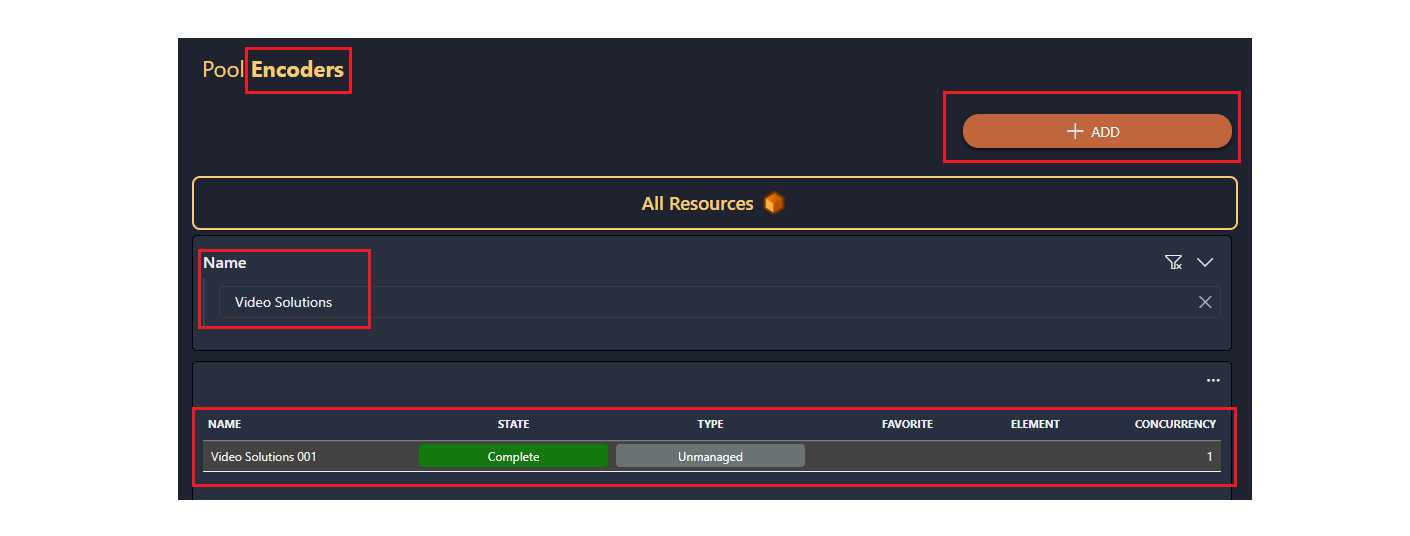
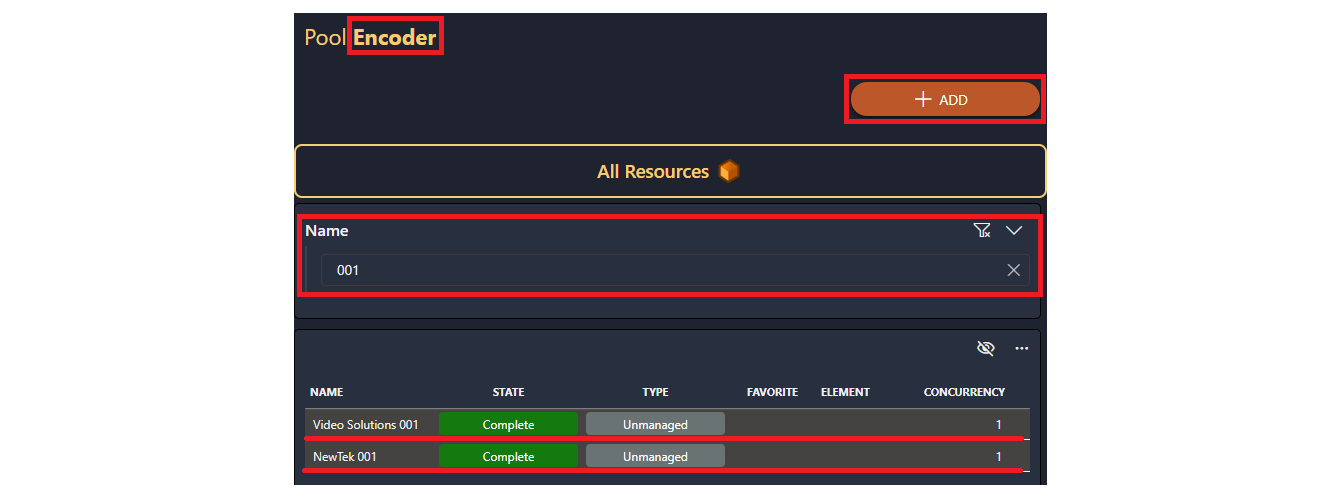
Updated Resource Studio Intro to reflect the new version changes

diff --git a/solutions/standard_solutions/MediaOps/Tutorials/Tutorial_Resource_Studio_Intro.md b/solutions/standard_solutions/MediaOps/Tutorials/Tutorial_Resource_Studio_Intro.md
@@ -23,12 +23,11 @@ Expected duration: 15 minutes
 
 - [Step 1: Create resource pools](#step-1-create-resource-pools)
 - [Step 2: Create resources](#step-2-create-resources)
-- [Step 3: Mark resources complete](#step-3-mark-resources-complete)
-- [Step 4: Assign resources to pools](#step-4-assign-resources-to-pools)
+- [Step 3: Assign resources to pools](#step-3-assign-resources-to-pools)
 
 ## Step 1: Create resource pools
 
-Assume that you have a set of devices you would like to add to the Resource Studio app. The devices convert signals between [SDI](https://en.wikipedia.org/wiki/Serial_digital_interface) and [IP](https://en.wikipedia.org/wiki/Internet_Protocol). SDI-to-IP devices act as **encoders**, and IP-to-SDI devices as **decoders**.
+Assume that you have a set of devices you would like to add to the Resource Studio app. The devices convert signals between [SDI](https://en.wikipedia.org/wiki/Serial_digital_interface) and [IP](https://en.wikipedia.org/wiki/Internet_Protocol). `SDI-to-IP` devices act as **encoders**, and `IP-to-SDI` devices as **decoders**.
 
 To represent these device types in the Resource Studio app, you can create two matching resource pools:
 
@@ -41,7 +40,7 @@ To represent these device types in the Resource Studio app, you can create two m
    ![New Resource Pool Form](~/solutions/images/Resource_Studio_New_Resource_Pool_Form.png)
 
    > [!TIP]  
-   > You don’t need to modify other fields in this form for this tutorial.
+   > You don’t need to modify other fields in the form for this tutorial.
 
 1. Click **Save as Completed**.
 
@@ -54,7 +53,7 @@ To represent these device types in the Resource Studio app, you can create two m
 
 ## Step 2: Create resources
 
-Now that the resource pools are set up, you can proceed to create resources and assign them.
+Now that the resource pools are created, we can proceed to create resources and assign them to the resource pools.
 
 1. Go to the **Resources** page.
 
@@ -64,40 +63,34 @@ Now that the resource pools are set up, you can proceed to create resources and 
    - *Video Solutions 001*
    - *NewTek 001*
 
-1. For both, set the **Type** to `Unmanaged` and click **Save**.
+1. For both resources, the **Type** should be `Unmanaged`.
+
+1. Click **Save as Completed**.
 
    ![New Resource Form](~/solutions/images/Resource_Studio_New_Resource_Form.png)
 
 > [!NOTE]  
 > In this example, *Video Solutions 001* is an **Encoder** only, while *NewTek 001* can act as either an **Encoder** or **Decoder**, but only one at a time.
 
-## Step 3: Mark resources complete
+## Step 3: Assign resources to pools
 
-Before resources can be assigned to pools, they must be marked complete.
+1. Navigate to the **Resource Pools** page.
 
-1. Open the **Edit** panel for each resource.
+1. On the **Encoder** resource pool that we created earlier, click `...` to open up the context menu.
 
-1. Click **Mark complete**.
-
-   ![Mark Complete](~/solutions/images/Resource_Studio_Resource_Mark_Complete.png)
-
-## Step 4: Assign resources to pools
-
-1. Go to the **Assign Resources** screen.
+1. Click **Assign Resources**.
 
    ![Assign Resources](~/solutions/images/Resource_Studio_Assign_Resources.png)
 
-1. At the top, confirm the resource pool you are assigning to.
+1. At the top of the panel, confirm the resource pool name matches the one you actually want to assigning resources to, namely "**Encoder**".
 
-1. Use the filter box to locate the resource.
+1. Optionally, use the filter box to locate the resources you want to assign.
 
-1. Select the resource and click `+ ADD`.
+1. Select *Video Solutions 001* and *NewTek 001* resources, and click `+ ADD`.
 
    ![Assign Resources Panel](~/solutions/images/Resource_Studio_Assign_Resources_Panel.png)
 
-1. Assign the resources as follows:
-   - Add *Video Solutions 001* and *NewTek 001* to the **Encoders** pool.
-   - Add only *NewTek 001* to the **Decoders** pool.
+1. Similarly, assign *NewTek 001* resource to the **Decoder** pool.
 
 > [!TIP]  
 > If your resource doesn’t show up, make sure it has been **marked complete**.
@@ -106,10 +99,10 @@ You should now see the resources listed in the right-hand column of each pool. T
 
 > [!NOTE]
 > In case your resources or resource pools are in `Draft` state, you can change the state to `Complete` as follows:
-> 1. Open the **Edit** panel of each instance you want to change.
-> 1. Click **Mark complete**.
+> 1. By clickin on the pencil icon, open the **Edit** panel of each resource/resource pool you want to edit.
+> 1. Click **Complete**.
 
-![Mark Complete](~/solutions/images/Resource_Studio_Mark_Complete.png)
+![Mark Complete](~/solutions/images/Resource_Studio_Complete.png)
 
 > [!TIP]  
 > You can also **Change icon** of the resource pools to add visual context in other applications.
